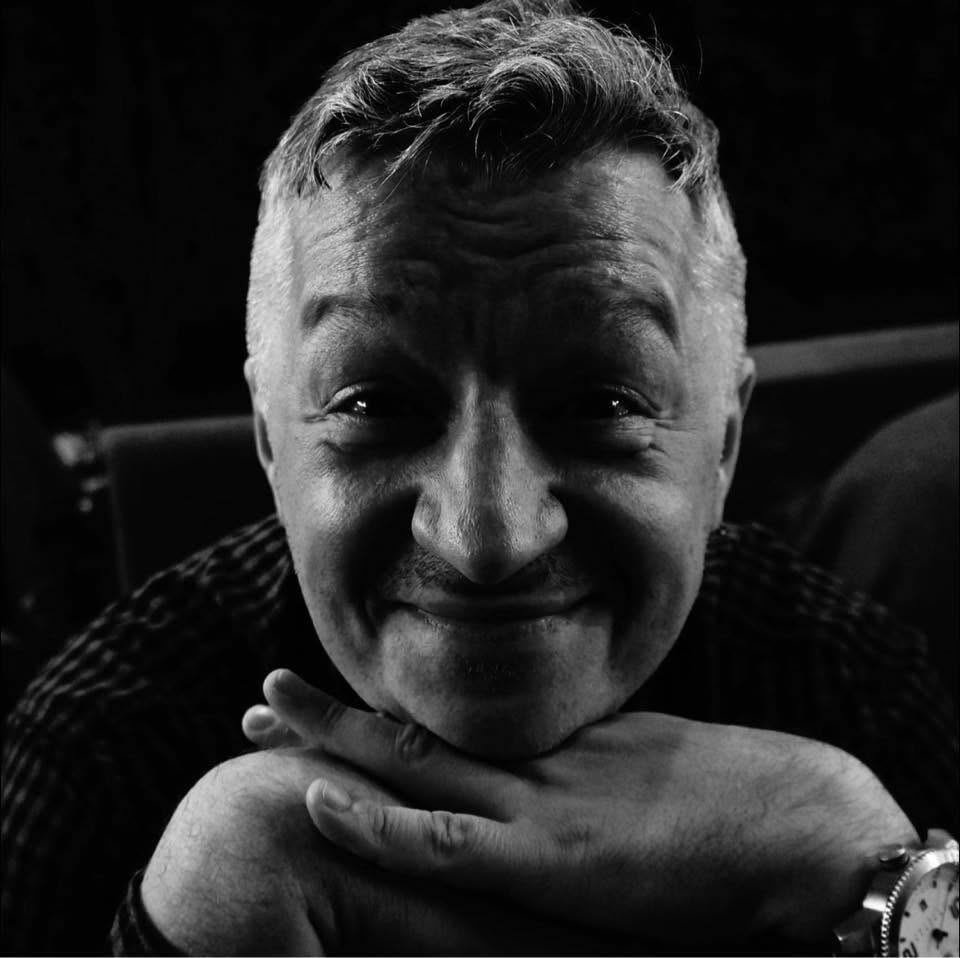
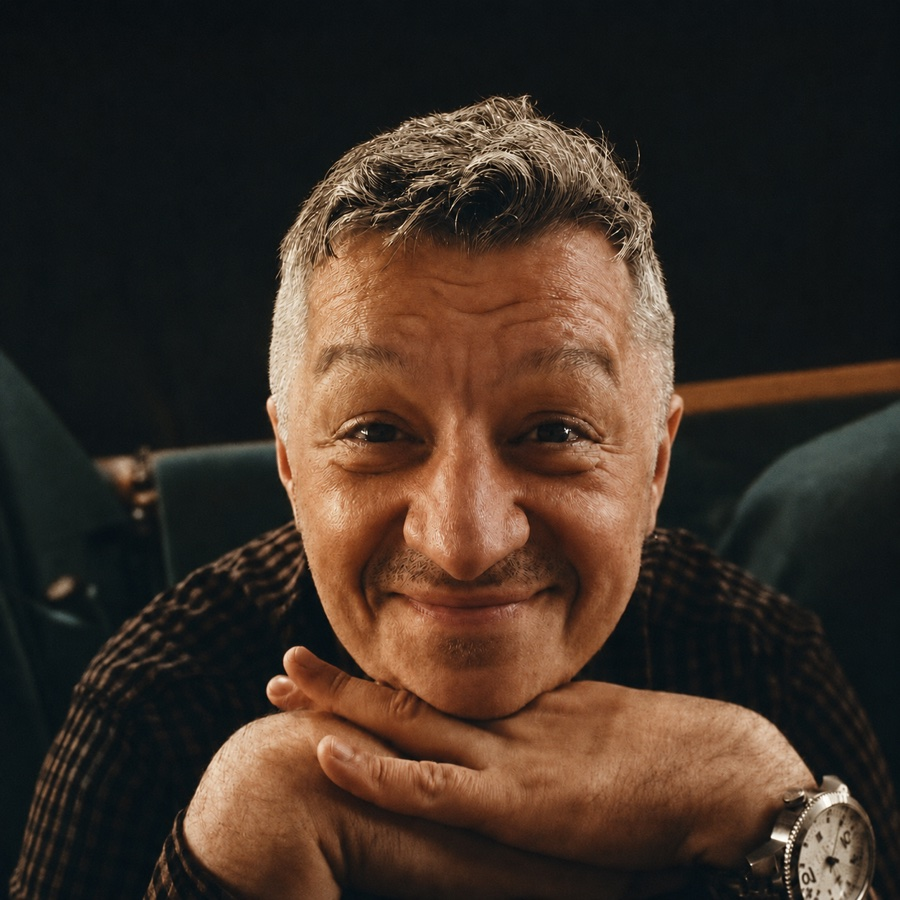
Update commercial Trusted By marquee and profile portrait.
Hide testimonials temporarily, match Glowl client strip, and swap in the new founder photo.

diff --git a/site/src/components/TrustedBySection.tsx b/site/src/components/TrustedBySection.tsx
@@ -1,24 +1,43 @@
 import { sectionIds, site } from "@/data/site";
 
+function BrandRow({ groupId, brands }: { groupId: string; brands: readonly string[] }) {
+  return (
+    <div className="flex shrink-0 items-center">
+      {brands.map((brand) => (
+        <div key={`${groupId}-${brand}`} className="flex shrink-0 items-center">
+          <span className="trusted-by__item whitespace-nowrap px-2 md:px-2.5">{brand}</span>
+          <span
+            className="strip-service-dot trusted-by__dot mx-3 h-1 w-1 shrink-0 rounded-full md:mx-4"
+            aria-hidden="true"
+          />
+        </div>
+      ))}
+    </div>
+  );
+}
+
 export default function TrustedBySection() {
   const { trustedBy } = site;
+  const brands = trustedBy.brands;
+  const countLabel = `${trustedBy.label} · ${brands.length}`;
 
   return (
     <section
       id={sectionIds.trusted}
       className="scroll-mt-24 px-[var(--page-padding)] pb-[var(--section-spacing)]"
-      aria-label="Trusted by"
+      aria-label={countLabel}
     >
       <div className="mx-auto w-full min-w-0 max-w-[920px]">
-        <div className="trusted-by">
-          <p className="trusted-by__label">{trustedBy.label}</p>
-          <ul className="trusted-by__list">
-            {trustedBy.brands.map((brand) => (
-              <li key={brand} className="trusted-by__item">
-                {brand}
-              </li>
-            ))}
-          </ul>
+        <p className="trusted-by__label">{countLabel}</p>
+        <div className="trusted-by trusted-by--marquee" aria-hidden="true">
+          <div className="trusted-by__marquee strip-marquee-viewport overflow-hidden">
+            <div className="strip-marquee-clip">
+              <div className="strip-marquee-track">
+                <BrandRow groupId="a" brands={brands} />
+                <BrandRow groupId="b" brands={brands} />
+              </div>
+            </div>
+          </div>
         </div>
       </div>
     </section>

diff --git a/site/src/styles/index.css b/site/src/styles/index.css
@@ -4759,7 +4759,7 @@ footer {
   width: 100%;
   height: 100%;
   object-fit: cover;
-  object-position: center 18%;
+  object-position: center 32%;
 }
 
 @media (min-width: 768px) {
@@ -4947,7 +4947,15 @@ footer {
 
 .trusted-by {
   padding: 0.35rem 0 0.15rem;
-  text-align: center;
+  text-align: left;
+}
+
+.trusted-by--marquee {
+  display: block;
+  width: 100%;
+  min-width: 0;
+  max-width: 100%;
+  overflow: hidden;
 }
 
 .trusted-by__label {
@@ -4957,6 +4965,18 @@ footer {
   letter-spacing: 0.16em;
   text-transform: uppercase;
   color: var(--text-tertiary);
+}
+
+.trusted-by__marquee.strip-marquee-viewport {
+  width: 100%;
+  max-width: 100%;
+  min-width: 0;
+  -webkit-mask-image: linear-gradient(90deg, transparent 0%, #000 8%, #000 86%, transparent 100%);
+  mask-image: linear-gradient(90deg, transparent 0%, #000 8%, #000 86%, transparent 100%);
+}
+
+.trusted-by__marquee .strip-marquee-track {
+  padding-inline: 0;
 }
 
 .trusted-by__list {
@@ -4974,6 +4994,10 @@ footer {
   font-weight: 500;
   letter-spacing: 0.04em;
   color: color-mix(in srgb, var(--text-secondary) 72%, transparent);
+}
+
+.trusted-by__dot {
+  background: color-mix(in srgb, var(--text-primary) 22%, transparent);
 }
 
 .personal-about__text {

diff --git a/site/src/data/site.ts b/site/src/data/site.ts
@@ -13,7 +13,7 @@ export const site = {
     personalRole: "Animation Director & Producer",
     personalPositioning: "I direct animation and film — for festivals, for brands, and for myself.",
     personalProof: "35 years in animation · 20 years producing · 1000+ projects delivered",
-    personalPortrait: "/images/portrait.jpg",
+    personalPortrait: "/images/portrait.webp",
     personalPortraitAlt: "Portrait of Dmytro Lisenbart",
   },
   showreelSection: {
@@ -23,7 +23,16 @@ export const site = {
   },
   trustedBy: {
     label: "Trusted by",
-    brands: ["Samsung", "McDonald's", "Nestlé", "MasterCard", "Playtika", "Plarium"] as const,
+    brands: [
+      "Nestlé",
+      "Playtika",
+      "MasterCard",
+      "Voodoo",
+      "Samsung",
+      "Plarium",
+      "McDonald's",
+      "Moon Active",
+    ] as const,
   },
   explorePaths: {
     title: "Two roads, one direction.",

diff --git a/site/src/pages/CommercialPage.tsx b/site/src/pages/CommercialPage.tsx
@@ -1,6 +1,5 @@
 import { useEffect } from "react";
 import ReelBlock from "@/components/ReelBlock";
-import TestimonialsSection from "@/components/TestimonialsSection";
 import TrustedBySection from "@/components/TrustedBySection";
 import ContactForm from "@/components/ContactForm";
 import { SEO } from "@/components/SEO";
@@ -46,7 +45,8 @@ export default function CommercialPage() {
           ))}
         </div>
 
-        <TestimonialsSection />
+        {/* Temporarily hidden — restore when testimonials are ready to show */}
+        {/* <TestimonialsSection /> */}
 
         <ContactForm lead={commercialPage.contactLead} />
       </main>

diff --git a/site/src/components/PersonalHeroSection.tsx b/site/src/components/PersonalHeroSection.tsx
@@ -24,7 +24,7 @@ export default function PersonalHeroSection() {
                 src={publicAsset(hero.personalPortrait)}
                 alt={hero.personalPortraitAlt}
                 width={900}
-                height={1100}
+                height={900}
                 decoding="async"
               />
             </figure>
